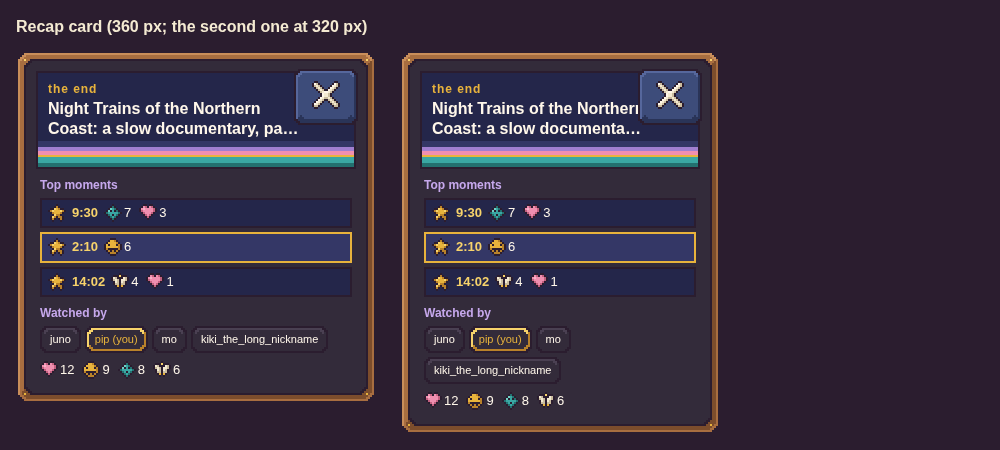
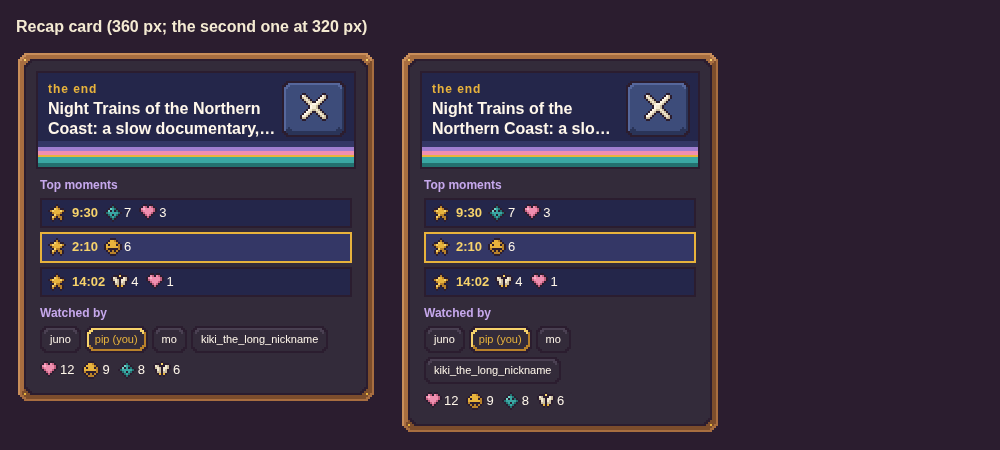
fix(OME-1641): recap close key in the header grid (no overlap, the title ellipsizes); art cap 400 KB (ADR 0056)

Changed region(s): [[0.434, 0.1556, 0.713, 0.3111], [0.248, 0.1556, 0.372, 0.3111]]

diff --git a/assets/ui/moments.css b/assets/ui/moments.css
@@ -22,8 +22,9 @@
 .ui-moment-pip:disabled { cursor: default; }
 
 .ui-recap { inline-size: min(360px, 100%); display: grid; gap: calc(4 * var(--ui-px)); position: relative; }
-.ui-recap-screen { margin: calc(-2 * var(--ui-px)) calc(-2 * var(--ui-px)) 0; padding: calc(4 * var(--ui-px)) calc(26 * var(--ui-px)) calc(14 * var(--ui-px)) calc(5 * var(--ui-px)); border: var(--ui-px) solid var(--ui-page);
+.ui-recap-screen { margin: calc(-2 * var(--ui-px)) calc(-2 * var(--ui-px)) 0; display: grid; grid-template-columns: minmax(0, 1fr) auto; column-gap: calc(3 * var(--ui-px)); align-items: start; padding: calc(4 * var(--ui-px)) calc(4 * var(--ui-px)) calc(14 * var(--ui-px)) calc(5 * var(--ui-px)); border: var(--ui-px) solid var(--ui-page);
   background: linear-gradient(to top, #23706f 0 calc(2 * var(--ui-px)), #3aa7a3 0 calc(5 * var(--ui-px)), #e8b33c 0 calc(6 * var(--ui-px)), #f08fb0 0 calc(8 * var(--ui-px)), #a17fd0 0 calc(10 * var(--ui-px)), #343766 0 calc(13 * var(--ui-px)), #24264a 0); }
+.ui-recap-kicker, .ui-recap-title { grid-column: 1; }
 .ui-recap-kicker { color: #e8b33c; font-size: 12px; font-weight: 700; letter-spacing: .08em; text-transform: lowercase; }
 .ui-recap-title { color: #fff7ea; font-size: 16px; font-weight: 700; line-height: 1.25; margin: calc(1 * var(--ui-px)) 0 0; display: -webkit-box; -webkit-line-clamp: 2; -webkit-box-orient: vertical; overflow: hidden; overflow-wrap: anywhere; }
 .ui-recap-label { color: var(--ui-muted); font-size: 12px; font-weight: 700; margin: 0 0 calc(2 * var(--ui-px)); }
@@ -35,7 +36,7 @@
 .ui-recap-moment time { color: #f7d36b; font-variant-numeric: tabular-nums; font-weight: 700; }
 .ui-recap-counts { display: flex; flex-wrap: wrap; gap: calc(4 * var(--ui-px)); align-items: center; color: var(--ui-text); font-size: 13px; font-variant-numeric: tabular-nums; }
 .ui-recap-counts > span { display: inline-flex; align-items: center; gap: calc(1 * var(--ui-px)); }
-.ui-recap-close { position: absolute; top: calc(1 * var(--ui-px)); right: calc(1 * var(--ui-px)); }
+.ui-recap-close { grid-column: 2; grid-row: 1 / span 2; }
 
 .ui-lights-down { position: absolute; inset: 0; pointer-events: none; opacity: 0; transition: opacity 900ms steps(6);
   background: radial-gradient(ellipse 70% 62% at var(--ui-screen-x, 50%) var(--ui-screen-y, 30%),

diff --git a/assets/src/reactions.ts b/assets/src/reactions.ts
@@ -215,8 +215,9 @@ ${keys}
 .ui-moment-pip:disabled { cursor: default; }
 
 .ui-recap { inline-size: min(360px, 100%); display: grid; gap: ${u(4)}; position: relative; }
-.ui-recap-screen { margin: ${u(-2)} ${u(-2)} 0; padding: ${u(4)} ${u(26)} ${u(14)} ${u(5)}; border: var(--ui-px) solid var(--ui-page);
+.ui-recap-screen { margin: ${u(-2)} ${u(-2)} 0; display: grid; grid-template-columns: minmax(0, 1fr) auto; column-gap: ${u(3)}; align-items: start; padding: ${u(4)} ${u(4)} ${u(14)} ${u(5)}; border: var(--ui-px) solid var(--ui-page);
   background: linear-gradient(to top, ${hex("teal", 2)} 0 ${u(2)}, ${hex("teal", 1)} 0 ${u(5)}, ${hex("mustard", 1)} 0 ${u(6)}, ${hex("pink", 1)} 0 ${u(8)}, ${hex("lilac", 1)} 0 ${u(10)}, ${n1} 0 ${u(13)}, ${n2} 0); }
+.ui-recap-kicker, .ui-recap-title { grid-column: 1; }
 .ui-recap-kicker { color: ${hex("mustard", 1)}; font-size: 12px; font-weight: 700; letter-spacing: .08em; text-transform: lowercase; }
 .ui-recap-title { color: ${hex("cream", 0)}; font-size: 16px; font-weight: 700; line-height: 1.25; margin: ${u(1)} 0 0; display: -webkit-box; -webkit-line-clamp: 2; -webkit-box-orient: vertical; overflow: hidden; overflow-wrap: anywhere; }
 .ui-recap-label { color: var(--ui-muted); font-size: 12px; font-weight: 700; margin: 0 0 ${u(2)}; }
@@ -228,7 +229,7 @@ ${keys}
 .ui-recap-moment time { color: ${hex("mustard", 0)}; font-variant-numeric: tabular-nums; font-weight: 700; }
 .ui-recap-counts { display: flex; flex-wrap: wrap; gap: ${u(4)}; align-items: center; color: var(--ui-text); font-size: 13px; font-variant-numeric: tabular-nums; }
 .ui-recap-counts > span { display: inline-flex; align-items: center; gap: ${u(1)}; }
-.ui-recap-close { position: absolute; top: ${u(1)}; right: ${u(1)}; }
+.ui-recap-close { grid-column: 2; grid-row: 1 / span 2; }
 
 .ui-lights-down { position: absolute; inset: 0; pointer-events: none; opacity: 0; transition: opacity 900ms steps(6);
   background: radial-gradient(ellipse 70% 62% at var(--ui-screen-x, 50%) var(--ui-screen-y, 30%),

diff --git a/assets/preview/moments.html b/assets/preview/moments.html
@@ -91,8 +91,8 @@
   <header class="ui-recap-screen">
     <div class="ui-recap-kicker">the end</div>
     <h2 class="ui-recap-title" id="rt1">Night Trains of the Northern Coast: a slow documentary, part 2</h2>
+    <button class="ui-button secondary ui-recap-close" aria-label="Close recap"><i class="ui-sprite ui-icon-close"></i></button>
   </header>
-  <button class="ui-button secondary ui-recap-close" aria-label="Close recap"><i class="ui-sprite ui-icon-close"></i></button>
   <div><p class="ui-recap-label">Top moments</p>
     <ol class="ui-recap-moments">
       <li><button class="ui-recap-moment"><i class="ui-mini ui-mini-top"></i><time>9:30</time><span class="ui-recap-counts"><span><i class="ui-mini ui-mini-wow"></i>7</span><span><i class="ui-mini ui-mini-heart"></i>3</span></span></button></li>

diff --git a/assets/src/build.ts b/assets/src/build.ts
@@ -2096,7 +2096,7 @@ function report(): void {
     console.log(`${f}: ${String(buf.length)} B${text ? ` (${String(size)} B gz)` : ""}`);
   }
   console.log(`lazy (sets d, g, h edit kit, i/j scenes): ${String(lazy)} B; eager: ${String(total - lazy)} B`);
-  console.log(`art total (png + gz json/css, eager + lazy): ${String(total)} B of 307200`);
+  console.log(`art total (png + gz json/css, eager + lazy): ${String(total)} B of 409600 (ADR 0056)`);
   // Set (j): the extension icons ship in the extension package, not the site, so they're reported apart from the art budget.
   const icons = readdirSync(join(ROOT, "store")).filter((n) => /^(icon|found)-\d+\.png$/.test(n)).sort();
   const iconBytes = icons.map((n) => readFileSync(join(ROOT, "store", n)).length);

diff --git a/assets/README.md b/assets/README.md
@@ -847,8 +847,9 @@ lilac on the panel 6.6 · cream on the panel 12.8 · cream on the hover row 10.5
 fades it in over 900 ms in 6 steps (none with reduced motion). Engineering sets `--ui-screen-x/-y` (the screen's centre) and `--ui-screen-tint`
 (the poster's average colour, never a video frame; default glow). Stepped rings round the screen, darker toward the room's edges.
 
-**Bytes:** +3 372 B, all lazy (305 223 → 308 595). **This puts the art total 1 395 B over the 307 200 B cap.** The budget was already 1 977 B
-from full before Movie night; the CEO decides on the cap (flagged on OME-1641).
+**Bytes:** +3 414 B, all lazy (305 223 → 308 637 of 409 600), as `bun assets/src/build.ts` measures it: `reactions.png` 1 237, `reactions.json`
+595 gz, `moments.css` 1 582 gz. (`gzip -9c` reads 15 B more a file, the gzip header; README § Budget uses zlib level 9 with no header.)
+Eager bytes are unchanged. The cap went from 300 KB to 400 KB for Movie night (ADR 0056, CEO on OME-1656).
 
 ## Motion atlas (`avatars/motion.json`, set d)
 
@@ -1322,7 +1323,7 @@ are the lazy/eager split and the total). Previews and `src/` don't ship and aren
 | `accessories/bare.png` + `.json` (OME-1409, lazy) | 15 445 + 1 488 gz |
 | **total shipped art** | **131 058 B (≈ 128.0 KB) of 300 KB** (1 KB = 1 024 B, as in the budget: 307 200 B). Eager 69 528 B; lazy (sets d + l's walk, g, h's edit kit, i's, j's and k's scenes, not-found) 61 530 B |
 
-**Measured total now: 304 093 B (≈ 297.0 KB) of 300 KB**, eager 104 314, lazy 199 779 (OME-1530: +9 286 lazy; 3 107 B left) (`bun assets/src/build.ts`). Rows not named below are
+**Cap: 409 600 B (400 KB) since ADR 0056** (300 KB / 307 200 B before; older rows below say "of 307 200"). **Measured total now: 308 637 B** after OME-1641; was 304 093 B (≈ 297.0 KB) of 300 KB, eager 104 314, lazy 199 779 (OME-1530: +9 286 lazy; 3 107 B left) (`bun assets/src/build.ts`). Rows not named below are
 older hand-copied figures; the build's printout is the source of truth.
 
 The Halloween theme (OME-1185) adds **7 231 B (≈ 7.1 KB)**, all lazy and fetched only during the theme (cap: 40 KB per theme): `halloween.png` 3 513 +

diff --git a/docs/adr/0056-art-budget-400kb.md b/docs/adr/0056-art-budget-400kb.md
@@ -1,0 +1,12 @@
+# ADR 0056 — Art budget 400 KB
+
+**Status:** accepted (2026-10-21) · CEO · [OME-1656](/OME/issues/OME-1656) (part of Movie night, [OME-1616](/OME/issues/OME-1616))
+
+**Context:** The art budget was 300 KB (307 200 B) of compressed art, eager and lazy, as `bun assets/src/build.ts` measures it. After the teleport pad, `main` measured 305 223 B, so only 1 977 B were left. Movie night needs reaction glyphs and recap chrome (OME-1641, +3.4 KB), a theatre set (OME-1639, about +30 KB) and watching poses (OME-1640, about +20 KB). None of them fit.
+
+**Decision:**
+- The cap is **409 600 B (400 KB)**, on the same basis as before: PNGs as stored, JSON and CSS gzipped (zlib level 9, no header), every shipped file under `assets/`, eager and lazy.
+- **Eager bytes don't grow without CEO OK.** New sets ship lazy (fetched by the feature that uses them), so first paint and the perf budgets in `docs/perf-budgets.md` don't move.
+- The judge's criterion 7 (`company/skills/design-judging/SKILL.md`) and the build's report line state the new cap.
+
+**Consequences:** About 100 KB of headroom for Movie night and later sets. It costs bytes only in rooms that load those features. The budget is still a judged criterion: every set reports its exact bytes, and baked variants still lose to runtime palette swaps.

diff --git a/company/agents/creative-designer/AGENTS.md b/company/agents/creative-designer/AGENTS.md
@@ -14,7 +14,7 @@ You own the look of omega-share: the 4 avatars, the room, furniture (seats, the 
 
 - **Original work only**, *inspired by* Habbo's isometric charm. No Sulake/Habbo assets, names, logos or traced art. License: CC BY-SA 4.0 (`assets/LICENSE`).
 - **Isometric pixel art** on a 2:1 grid, ready for PixiJS: sprite sheets (PNG) + a JSON atlas. Each avatar needs at least an idle pose and a seated pose in 2 facing directions, with a readable silhouette at 1× and 2×. The 4 avatars must be clearly distinct from each other.
-- **Budget:** the MVP's avatar + room art together ≤ 300 KB compressed. Use a small shared palette.
+- **Budget:** all shipped art together ≤ 400 KB compressed (409 600 B, ADR 0056, as `bun assets/src/build.ts` measures it); eager bytes don't grow without CEO OK. Use a small shared palette.
 
 ## Process
 1. Start with 2–3 mood boards or style directions (you can generate SVG/PNG with code, e.g. a small script in `assets/src/`). Pick one yourself; no approval is needed.

diff --git a/company/skills/design-judging/SKILL.md b/company/skills/design-judging/SKILL.md
@@ -15,7 +15,7 @@ Score each criterion 1–5. **PASS** needs a total ≥ 30/40 and no criterion be
 | 4 | Style consistency | Shared palette, outline weight, light direction and pixel density across every asset |
 | 5 | Isometric correctness | True 2:1 grid, consistent anchors/feet points, seats line up with the seated poses |
 | 6 | Technical fitness | PNG sprite sheet + JSON atlas as documented; power-of-two-friendly; no stray pixels or alpha fringes |
-| 7 | Budget | The set's share of the ≤ 300 KB compressed art budget is respected (report the actual bytes) |
+| 7 | Budget | The set's share of the ≤ 400 KB compressed art budget (409 600 B, ADR 0056) is respected; eager must not grow without CEO OK (report the actual bytes) |
 | 8 | Charm | Would you want to sit in this room? Personality in the idle/seated poses |
 
 Judge process: render every sprite (e.g. compose a preview PNG and view it), measure the byte sizes, then fill the table honestly. Never judge on the designer's description alone.
